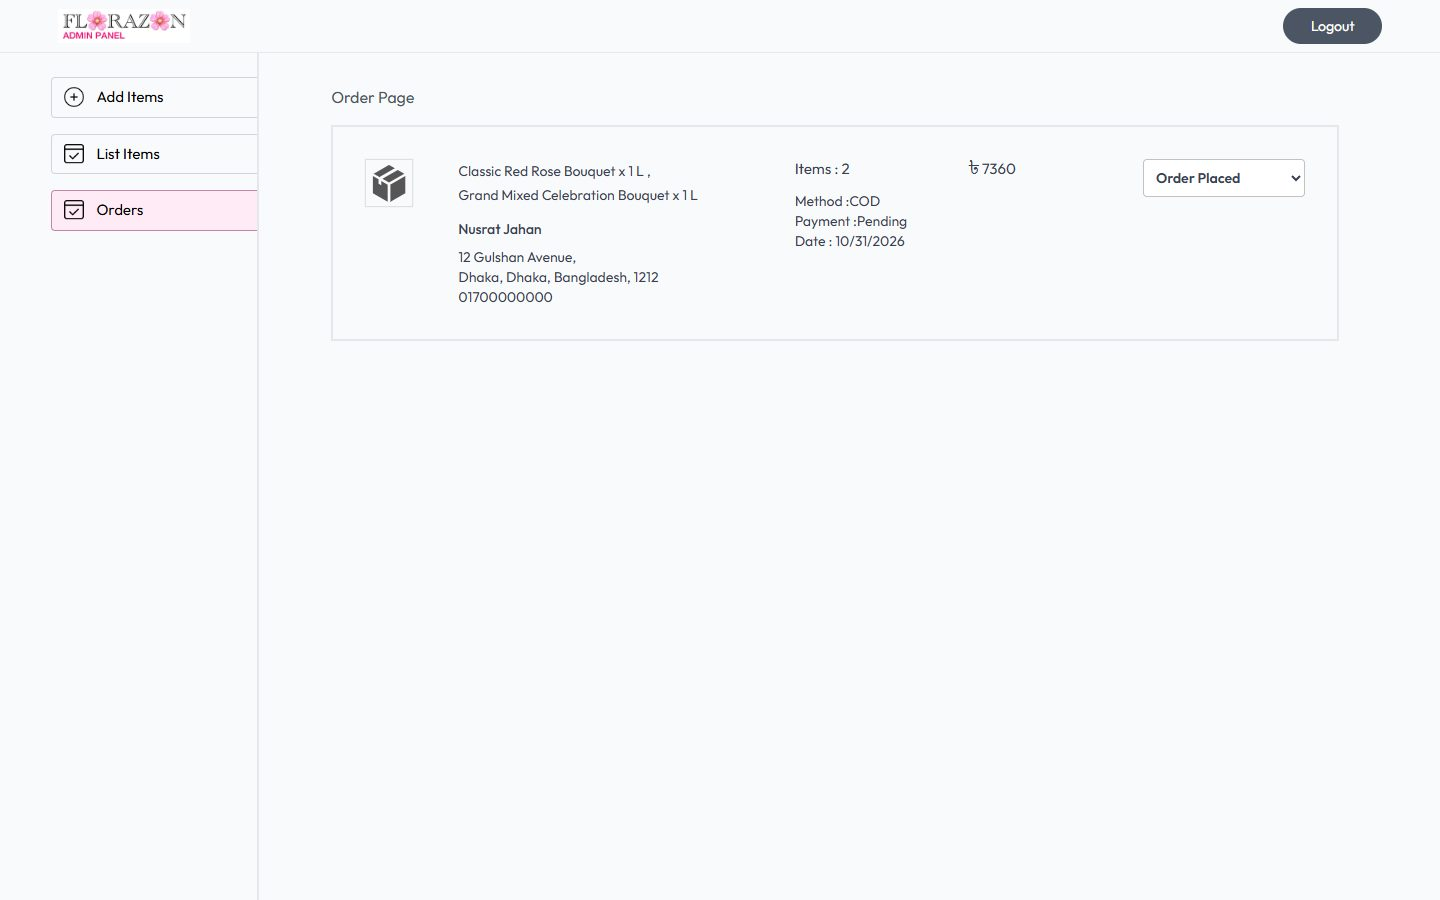
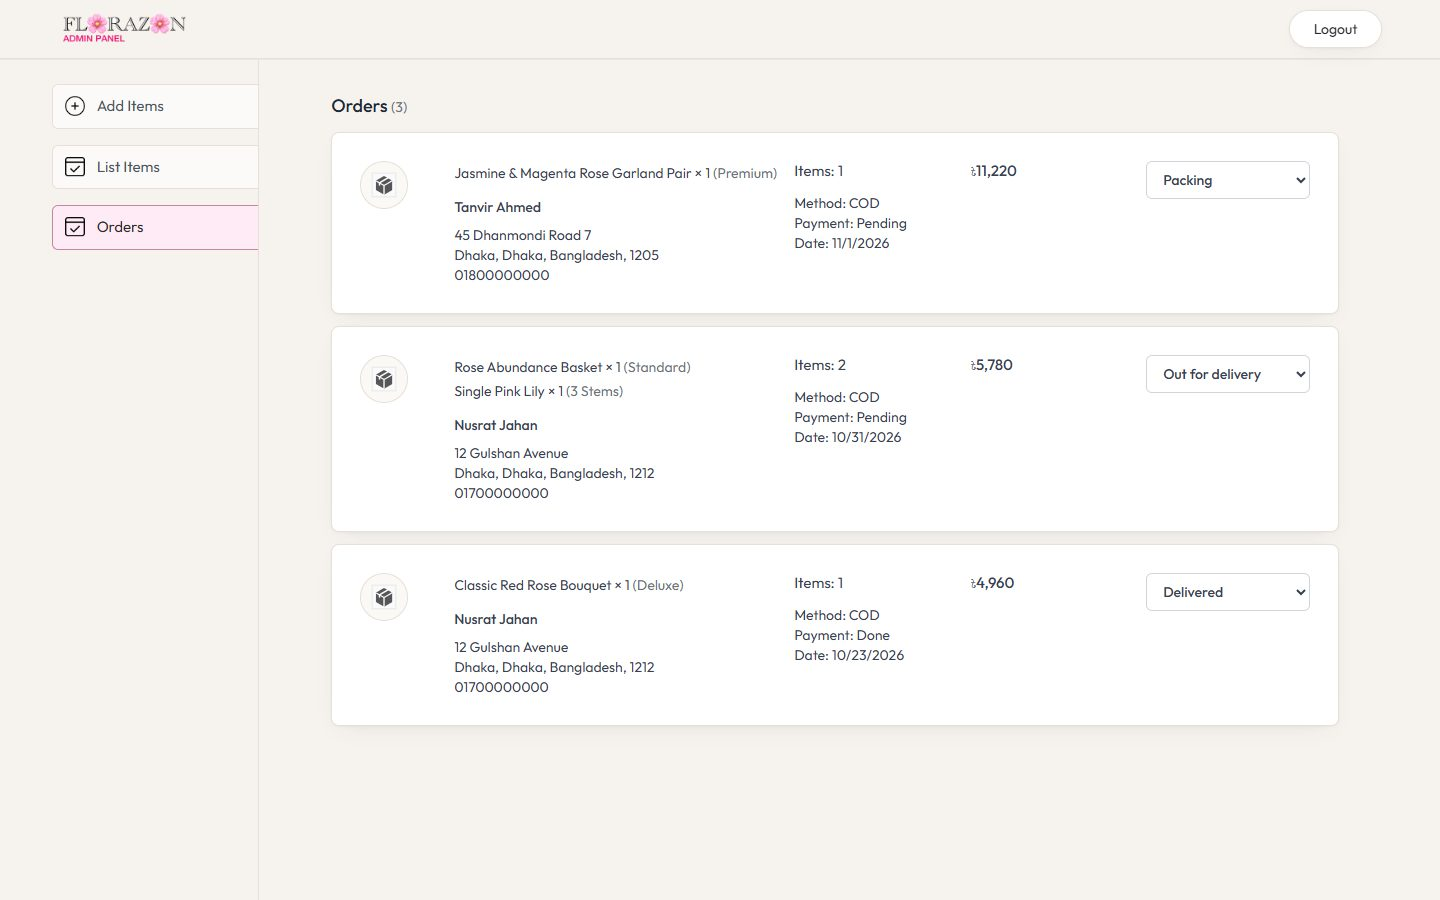
Update README and screenshots for the redesigned storefront
Describe the four collections, flower options and pricing, the collection toolbar, contact page and admin sold-as choice, and refresh all screenshots with the current design and catalogue.

diff --git a/README.md b/README.md
@@ -1,6 +1,6 @@
 # Florazon
 
-Florazon is a full-stack e-commerce platform for ordering fresh flowers online, built with the MERN stack (MongoDB, Express, React, Node.js). It has a customer storefront, a separate admin panel for store management, and a REST API that both clients use.
+Florazon is a full-stack e-commerce platform for a flower shop, built with the MERN stack (MongoDB, Express, React, Node.js). Customers browse hand-tied bouquets, single flowers, wedding garlands and flower baskets, choose a bouquet size or number of stems, and order with Cash on Delivery. Store staff manage products and deliveries from a separate admin panel.
 
 ![React](https://img.shields.io/badge/React-19-61DAFB?logo=react&logoColor=white)
 ![Vite](https://img.shields.io/badge/Vite-7-646CFF?logo=vite&logoColor=white)
@@ -10,7 +10,7 @@ Florazon is a full-stack e-commerce platform for ordering fresh flowers online, 
 ![MongoDB](https://img.shields.io/badge/MongoDB-Mongoose_8-47A248?logo=mongodb&logoColor=white)
 [![License: MIT](https://img.shields.io/badge/License-MIT-yellow.svg)](LICENSE)
 
-![Florazon home page](docs/screenshots/storefront-home.jpg)
+![Florazon storefront home page](docs/screenshots/storefront-home.jpg)
 
 ## Live Demo
 
@@ -20,13 +20,11 @@ Florazon is a full-stack e-commerce platform for ordering fresh flowers online, 
 | Admin panel | [florazon-admin.vercel.app](https://florazon-admin.vercel.app) |
 | REST API | [florazon.onrender.com](https://florazon.onrender.com) |
 
-The API is hosted on Render's free plan and sleeps when idle, so the first request after a quiet period can take up to a minute to load the products.
+The API runs on Render's free plan and sleeps when idle, so the first visit after a quiet period can take up to a minute to load the products.
 
 ## Overview
 
-Florazon lets customers browse a catalogue of bouquets, single flowers, garlands and baskets, manage a cart that is saved to their account, and place Cash on Delivery orders. Store administrators use a dedicated panel to publish products, with images hosted on Cloudinary, and to move orders through each stage of delivery.
-
-The repository contains three independent applications:
+The repository contains three independent applications that share one REST API:
 
 | Application | Description | Default URL |
 | --- | --- | --- |
@@ -34,44 +32,64 @@ The repository contains three independent applications:
 | `admin/` | Store administration panel | http://localhost:5175 |
 | `backend/` | REST API used by both clients | http://localhost:4000 |
 
+The catalogue holds 52 products across four collections:
+
+| Collection | What it contains |
+| --- | --- |
+| Single Flower | Single stems and bouquets of one flower variety, such as all roses or all tulips |
+| Mixed Bouquet | Hand-tied arrangements that combine several kinds of flowers |
+| Garland | Fresh flower garlands sold in matching pairs for weddings and ceremonies |
+| Basket | Arrangements in a keepsake basket, crate or gift box |
+
 ## Features
 
 ### Customer Storefront
 
-- **Authentication:** customers register, log in and log out using JWT-based sessions. Expired sessions sign out automatically.
-- **Profile management:** customers can update their name and email, and change their password after confirming the current one.
-- **Product catalogue:** the home page shows the latest arrivals and best sellers.
-- **Search, filtering and sorting:** search by product name, filter by category (Occasion, Gift-Type) and type (Single-Flower, Bouquet, Garland, Basket), and sort by price.
-- **Product details:** each product has an image gallery, a choice of bouquet size (Standard, Deluxe, Premium) or number of stems (1, 3, 6) priced from the base price, a description and related products.
-- **Persistent cart:** customers can add, update and remove items. Items added before logging in are merged into the account at sign-in.
-- **Checkout:** a delivery details form with Cash on Delivery payment.
-- **Order tracking:** order history shows the current status of each order, from Order Placed through Packing, Shipped and Out for delivery to Delivered.
-- **Responsive layout:** the storefront is optimised for desktop, tablet and mobile.
+- **Shop by collection:** the home page introduces the four collections, the newest arrivals and the best sellers.
+- **Collection browsing:** type tabs with live counts, a category filter (Occasion, Gift Type), price sorting and name search, all in one toolbar.
+- **Flower options:** every product offers either a bouquet size or a number of stems, with the price for each option shown before it is added to the cart (see [Flower options and pricing](#flower-options-and-pricing)).
+- **Product pages:** an image gallery with hover zoom, option cards, a description and related products.
+- **Persistent cart:** quantity steppers, a running order summary, and a cart that is saved to the account. Items added before signing in are merged into the account at sign-in.
+- **Checkout and orders:** a delivery form with Cash on Delivery, and an order history that shows each order's status, from Order Placed through Packing, Shipped and Out for delivery to Delivered.
+- **Accounts:** registration, sign-in with JWT sessions that expire automatically, and a profile page for updating details and changing the password.
+- **Contact page:** store details, a message form that opens the visitor's email app with the message ready to send, and a map with directions.
+- **Responsive design:** layouts tested from 360px phones to 2560px monitors, with subtle scroll and page transitions that respect the reduced-motion setting.
 
 ### Admin Panel
 
 - **Secure login:** admin credentials are kept in server environment variables, and admin tokens expire after a set time.
-- **Product creation:** admins add products with up to four images uploaded to Cloudinary, plus category, type, how it is sold (bouquet sizes or single stems), base price and a best-seller flag.
-- **Catalogue management:** admins can view all products and remove them, with a confirmation step.
-- **Order management:** admins can review every order with customer and address details, and update its delivery status.
+- **Product creation:** up to four images uploaded to Cloudinary, plus name, description, category, collection, base price, a best-seller flag, and whether the product is sold as a bouquet (in sizes) or as single stems.
+- **Catalogue management:** a list of every product, with removal behind a confirmation step.
+- **Order management:** every order with its items, chosen options, customer and address, and a status control for each stage of delivery.
 
 ## Screenshots
 
-| Collection with filters | Product details |
+| Collection | Product with options |
 | --- | --- |
-| ![Collection page](docs/screenshots/storefront-collection.jpg) | ![Product page](docs/screenshots/storefront-product.jpg) |
+| ![Collection page with type tabs and filters](docs/screenshots/storefront-collection.jpg) | ![Product page with bouquet size options](docs/screenshots/storefront-product.jpg) |
 
 | Shopping cart | Order history |
 | --- | --- |
-| ![Cart page](docs/screenshots/storefront-cart.jpg) | ![Orders page](docs/screenshots/storefront-orders.jpg) |
+| ![Cart with chosen options and order summary](docs/screenshots/storefront-cart.jpg) | ![Order history with delivery status](docs/screenshots/storefront-orders.jpg) |
 
-| Admin: product list | Admin: order management |
+| Admin: products | Admin: orders |
 | --- | --- |
-| ![Admin product list](docs/screenshots/admin-products.jpg) | ![Admin orders](docs/screenshots/admin-order-management.jpg) |
+| ![Admin product list](docs/screenshots/admin-products.jpg) | ![Admin order management](docs/screenshots/admin-order-management.jpg) |
 
-| Admin: add product | Mobile view |
+| Admin: add product | Mobile |
 | --- | --- |
-| ![Admin add product](docs/screenshots/admin-add-product.jpg) | <img src="docs/screenshots/storefront-mobile.jpg" alt="Mobile collection page" width="300"> |
+| ![Admin add product form](docs/screenshots/admin-add-product.jpg) | <img src="docs/screenshots/storefront-mobile.jpg" alt="Storefront home page on a phone" width="300"> |
+
+## Flower Options and Pricing
+
+Each product is sold in one of two ways, and every option is priced from the product's base price:
+
+| Sold as | Options | Price |
+| --- | --- | --- |
+| Bouquet (bouquets, garlands and baskets) | Standard (as pictured), Deluxe, Premium | 1×, 1.4×, 1.8× the base price |
+| Single stems | 1 Stem, 3 Stems, 6 Stems | 1×, 2.8×, 5.4× the base price |
+
+Prices are rounded to the nearest ৳10. For example, a ৳3,200 bouquet costs ৳4,480 as Deluxe and ৳5,760 as Premium. The rules live in `backend/config/productOptions.js`, and the storefront uses an identical copy in `frontend/src/utils/productOptions.js` to show prices. The server always recalculates the order total.
 
 ## Technology Stack
 
@@ -80,7 +98,7 @@ The repository contains three independent applications:
 | Frontend and admin | React 19, React Router 7, Vite 7, Tailwind CSS 3, Axios, React Toastify |
 | Backend | Node.js, Express 5, Mongoose 8 |
 | Database | MongoDB (Atlas or self-hosted) |
-| Authentication and security | JSON Web Tokens, bcrypt, validator |
+| Authentication and security | JSON Web Tokens, bcrypt, validator, express-rate-limit |
 | File uploads | Multer, Cloudinary |
 | Tooling | ESLint 9, Nodemon, PostCSS, Autoprefixer |
 
@@ -95,7 +113,7 @@ flowchart LR
 ```
 
 - **Stateless authentication:** the API issues JWTs. Customer tokens are valid for 7 days and admin tokens for 1 day.
-- **Server-side pricing:** order totals are calculated from database prices and never taken from the client.
+- **Server-side pricing:** order totals are rebuilt from database prices and each item's chosen option, never taken from the client.
 - **Persistent carts:** carts are stored on the user record, so they survive page reloads and follow the customer across devices.
 
 ## Getting Started
@@ -123,7 +141,7 @@ cd admin && npm install && cd ..
 
 ### 3. Configure environment variables
 
-Each application includes a `.env.example` file. Copy it to `.env` in the same folder and provide your values.
+Each application includes a `.env.example` file. Copy it to `.env` in the same folder and fill in your values.
 
 **backend/.env**
 
@@ -137,6 +155,7 @@ Each application includes a `.env.example` file. Copy it to `.env` in the same f
 | `CLOUDINARY_NAME` | Cloudinary cloud name |
 | `CLOUDINARY_API_KEY` | Cloudinary API key |
 | `CLOUDINARY_SECRET_KEY` | Cloudinary API secret |
+| `CORS_ORIGINS` | Optional. Comma-separated list of allowed site origins in production |
 
 **frontend/.env** and **admin/.env**
 
@@ -144,7 +163,7 @@ Each application includes a `.env.example` file. Copy it to `.env` in the same f
 | --- | --- |
 | `VITE_BACKEND_URL` | Base URL of the API, for example `http://localhost:4000` |
 
-`.env` files are excluded from version control. Do not commit real credentials.
+`.env` files are excluded from version control. Never commit real credentials.
 
 ### 4. Start the applications
 
@@ -167,14 +186,14 @@ npm run dev
 
 ### 5. Load the product catalogue
 
-With `backend/.env` configured, import the catalogue into MongoDB. Each photo is uploaded to Cloudinary.
+With `backend/.env` configured, import the catalogue from `backend/seed/products.json`. Each photo in `backend/seed/images/` is uploaded to Cloudinary.
 
 ```bash
 cd backend
 npm run seed
 ```
 
-The script adds products that are not in the database yet and never deletes anything. Run `npm run seed -- --update` to refresh existing products with the catalogue data. Each run ends with a report of duplicate products, products that are not in the catalogue, and products without an image.
+The script only adds products that are not in the database yet and never deletes anything. To apply changes to existing products, such as a new price or description, run `npm run seed -- --update`. Each run ends with a report of duplicates, products missing from the catalogue, and products without an image.
 
 ### Available Scripts
 
@@ -190,10 +209,10 @@ The script adds products that are not in the database yet and never deletes anyt
 
 ## Usage
 
-1. **Add products:** load the catalogue with `npm run seed`, or open the admin panel at http://localhost:5175, sign in with `ADMIN_EMAIL` and `ADMIN_PASSWORD`, and use **Add Items** to upload images and product details.
-2. **Browse and shop:** open the storefront at http://localhost:5173, browse or search the collection, choose a bouquet size or number of stems and add items to the cart.
-3. **Check out:** create an account or log in, go to checkout, enter delivery details and place a Cash on Delivery order.
-4. **Fulfil orders:** in the admin panel, open **Orders** and update the order status. The customer sees the change under **My Orders**.
+1. **Add products:** run `npm run seed`, or sign in to the admin panel at http://localhost:5175 with `ADMIN_EMAIL` and `ADMIN_PASSWORD` and use **Add Items**.
+2. **Shop:** open the storefront at http://localhost:5173, pick a collection, choose a bouquet size or number of stems, and add items to the cart.
+3. **Check out:** create an account or sign in, enter delivery details and place a Cash on Delivery order.
+4. **Fulfil orders:** in the admin panel, open **Orders** and update each order's status. The customer sees the change under **My Orders**.
 
 ## Deployment
 
@@ -206,9 +225,7 @@ The repository includes a Render Blueprint (`render.yaml`) that configures the s
 1. In MongoDB Atlas, open **Network Access** and allow connections from `0.0.0.0/0`. Render's free plan does not use fixed IP addresses.
 2. In Render, choose **New > Blueprint** and select this repository.
 3. Enter the requested environment variables: `MONGODB_URI`, `ADMIN_EMAIL`, `ADMIN_PASSWORD`, `CLOUDINARY_NAME`, `CLOUDINARY_API_KEY` and `CLOUDINARY_SECRET_KEY`. `JWT_SECRET` is generated automatically. Leave `CORS_ORIGINS` empty for now.
-4. Deploy. When the service is live, opening its URL (for example `https://florazon.onrender.com`) shows `API Working`.
-
-On the free plan the service sleeps after a period of inactivity, so the first request afterwards can take up to a minute.
+4. Deploy. When the service is live, its URL (for example `https://florazon.onrender.com`) shows `API Working`.
 
 ### 2. Storefront and admin panel on Vercel
 
@@ -220,7 +237,7 @@ Create two Vercel projects from this repository, one for each application. Each 
 | Framework Preset | Vite (detected) | Vite (detected) |
 | Environment variable | `VITE_BACKEND_URL` = Render API URL | `VITE_BACKEND_URL` = Render API URL |
 
-Enter the API URL without a trailing slash. Vite includes environment variables at build time, so redeploy a project after changing its `VITE_BACKEND_URL`.
+Enter the API URL without a trailing slash. Vite reads environment variables at build time, so redeploy a project after changing its `VITE_BACKEND_URL`.
 
 ### 3. Connect the API to the frontends
 
@@ -230,7 +247,7 @@ Return to the Render service and set `CORS_ORIGINS` to both Vercel URLs, separat
 https://florazon.vercel.app,https://florazon-admin.vercel.app
 ```
 
-Save the change to redeploy the API. From then on, the API only accepts browser requests from these two sites.
+Saving the change redeploys the API. From then on, it only accepts browser requests from these two sites.
 
 ### Alternative: GitHub Pages
 
@@ -240,9 +257,10 @@ Save the change to redeploy the API. From then on, the API only accepts browser 
 
 - **Passwords** are hashed with bcrypt, and changing a password requires the current one.
 - **JWT sessions** expire. Admin tokens carry a role claim and never contain credentials.
-- **Order totals** are calculated on the server, pricing each item by its chosen option, and quantities are validated.
-- **MongoDB query filters** are sanitised to prevent operator injection.
-- **Cart input** is validated to prevent prototype pollution.
+- **Rate limiting** protects the sign-in, registration and password endpoints.
+- **Order totals** are calculated on the server from database prices and each item's option, and quantities are validated.
+- **Product options** submitted from the admin panel are checked against the allowed sets.
+- **MongoDB query filters** are sanitised to prevent operator injection, and cart input is validated to prevent prototype pollution.
 - **Uploads** are limited to image files under 5 MB, and temporary files are deleted after upload.
 
 ## Project Structure
@@ -250,34 +268,36 @@ Save the change to redeploy the API. From then on, the API only accepts browser 
 ```
 Florazon/
 ├── backend/                 Express REST API
-│   ├── config/              MongoDB and Cloudinary configuration
+│   ├── config/              Database, Cloudinary, constants and flower option pricing
 │   ├── controllers/         Request handlers (user, product, cart, order)
-│   ├── middleware/          Customer and admin authentication, file uploads
+│   ├── middleware/          Authentication, rate limiting and file uploads
 │   ├── models/              Mongoose schemas
 │   ├── routes/              Route definitions
-│   ├── seed/                Product catalogue data, optimised photos and import script
+│   ├── seed/                Product catalogue, product photos and import script
 │   └── server.js            Application entry point
 ├── frontend/                Customer storefront (React + Vite)
 │   └── src/
-│       ├── components/      Shared UI components
-│       ├── context/         Global state: products, cart, authentication
-│       └── pages/           Application pages
+│       ├── assets/          Logo, icons and cut-out imagery
+│       ├── components/      Shared UI: navigation, product cards, hero, footer
+│       ├── context/         Global state: products, cart and authentication
+│       ├── pages/           Home, collection, product, cart, checkout and account pages
+│       └── utils/           Formatting and flower option pricing
 ├── admin/                   Admin panel (React + Vite)
 │   └── src/
-│       ├── components/      Login, navigation bar, sidebar
+│       ├── components/      Login, navigation bar and sidebar
 │       └── pages/           Add, list and order management pages
 └── docs/screenshots/        Images used in this README
 ```
 
 ## Roadmap
 
-- Online payment integration (for example SSLCommerz or Stripe) alongside Cash on Delivery
+- Online payments (for example SSLCommerz or Stripe) alongside Cash on Delivery
 - Editing existing products from the admin panel
+- Sending contact form messages directly from the site
 - Password reset by email
 - Sales dashboard with order and revenue statistics
 - Product reviews and ratings
 - Automated tests and continuous integration
-
 
 ## License
 
